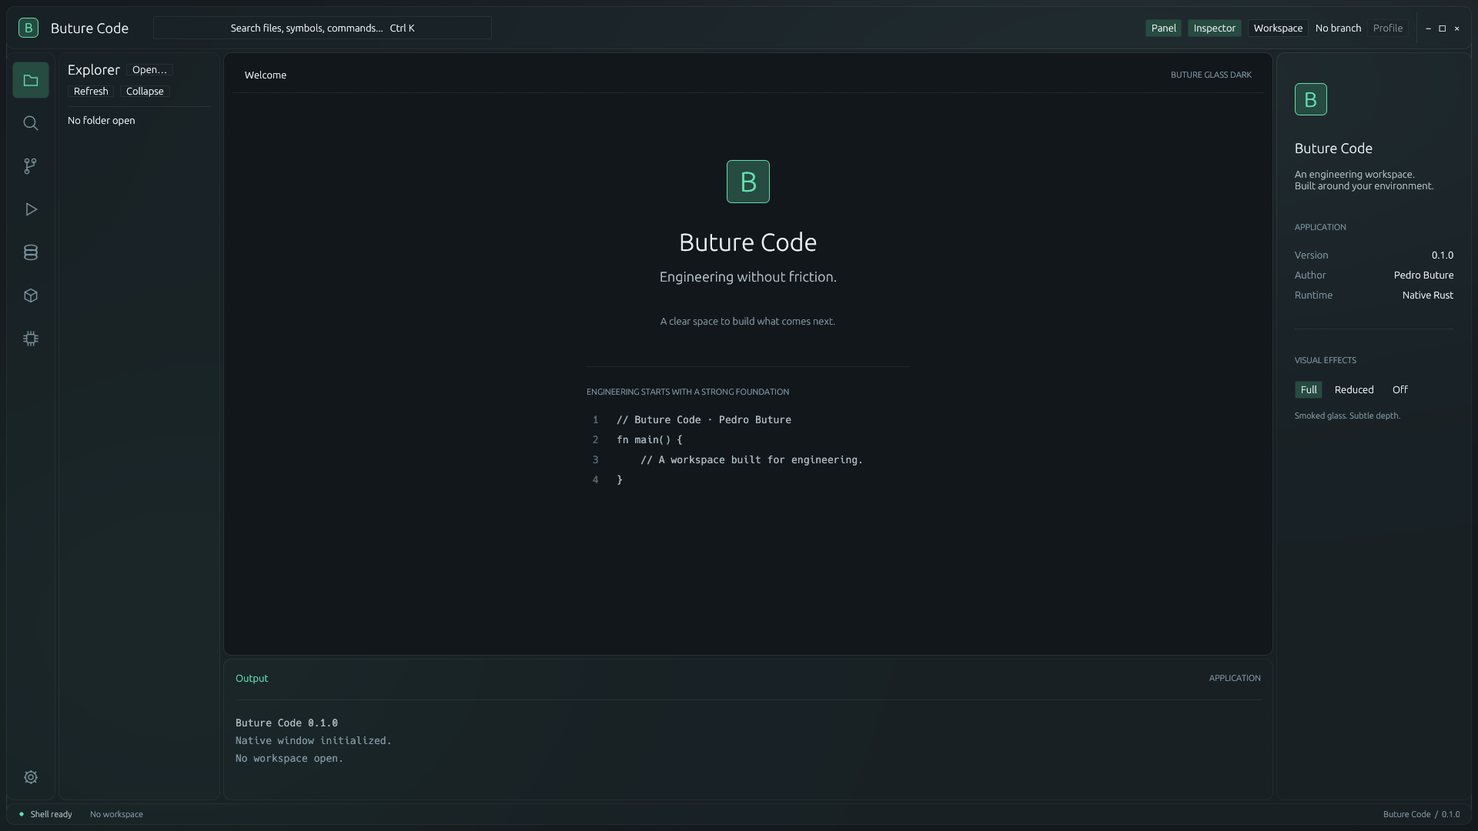
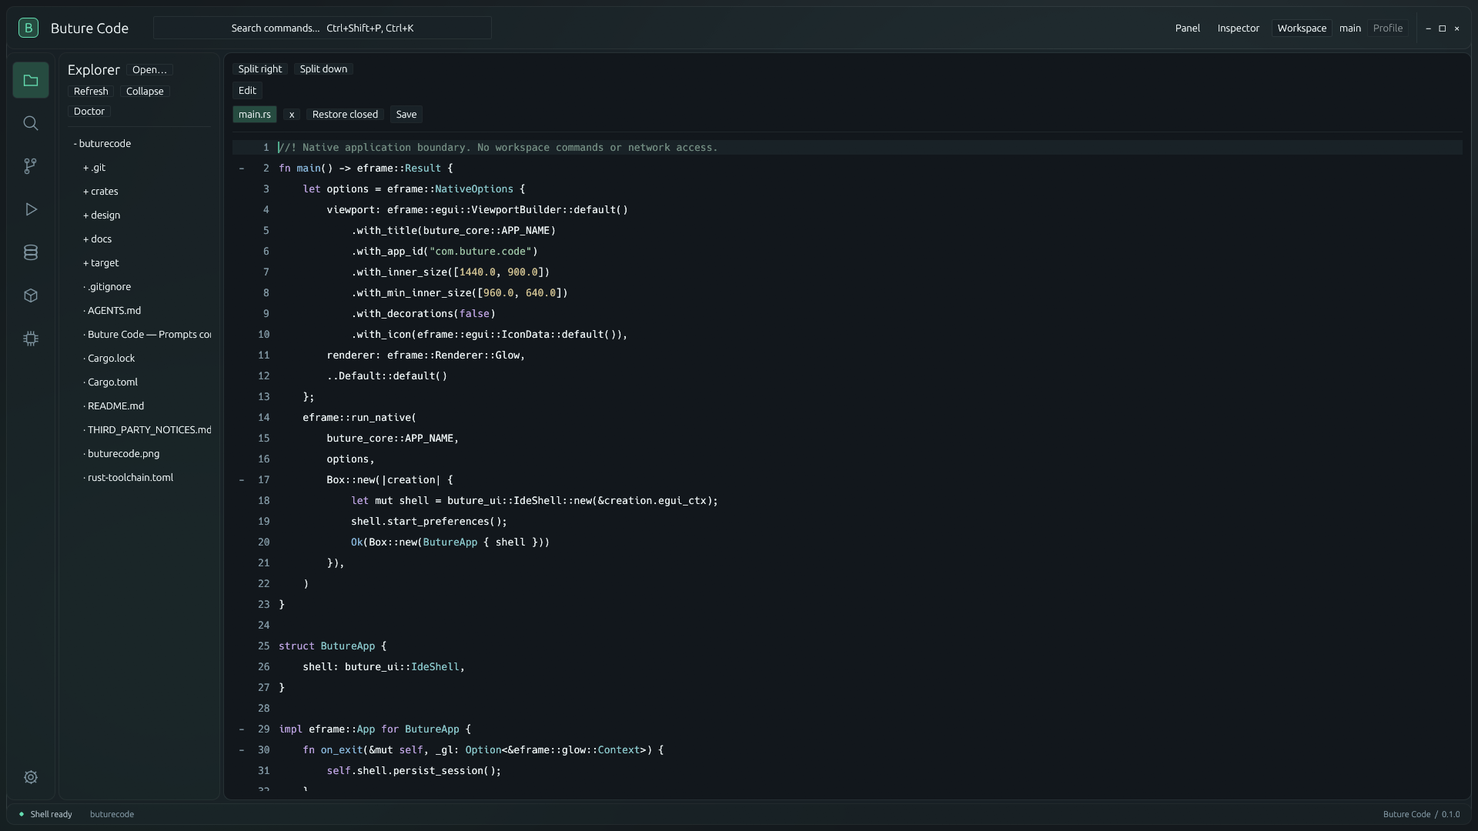
[docs] record milestone 35 validation and native previews

diff --git a/docs/architecture.md b/docs/architecture.md
@@ -4,13 +4,17 @@ Cargo workspace Rust stable, edition 2024, MSRV declarado 1.88. O lockfile fixa 
 
 ```text
 buture-app → eframe, buture-core, buture-ui
-buture-ui → egui, buture-settings, buture-workspace, buture-toolchains
-buture-settings / buture-workspace / buture-toolchains → biblioteca padrão
+buture-ui → settings, workspace, toolchains, doctor, project, editor, search, core
+buture-doctor → toolchains
+buture-project → serde_json, toml, ignore
+buture-editor → ropey, tree-sitter/grammars, serde_json
+buture-search → editor, core, regex, ignore
+buture-settings → core
 ```
 
-`buture-app` inicializa a janela e os workers de preferências/host. `buture-core` concentra a identidade. `buture-ui` fornece tokens, Backdrop, GlassSurface, layout, Explorer, onboarding e apresentação de Toolchains.
+`buture-app` inicializa a janela e os workers de preferências/host. `buture-core` concentra identidade, comandos, fuzzy matching e keybindings. `buture-ui` fornece tokens, Backdrop, GlassSurface, layout, Explorer, onboarding e apresentação de Toolchains.
 
-`buture-workspace` é um actor de filesystem: recebe ações e envia árvores/preview/erros. Apenas diretórios expandidos são listados; watcher por polling a cada dois segundos. A UI virtualiza linhas. Preview limitado a 1 MiB, sem edição. As ações validam confinamento ao workspace e rejeitam links simbólicos. IO ocorre no worker; não há comandos de projeto.
+`buture-workspace` é um actor de filesystem: recebe ações e envia árvores/preview/erros. Apenas diretórios expandidos são listados; watcher por polling a cada dois segundos. A UI virtualiza linhas. Preview de filesystem limitado a 1 MiB; abertura editável é delegada a buture-editor. As ações validam confinamento ao workspace e rejeitam links simbólicos. IO ocorre no worker; não há comandos de projeto.
 
 `buture-settings` valida chaves e valores, resolve Default → User → Workspace e persiste INI. Caminho do usuário: XDG_CONFIG_HOME ou ~/.config no Linux, Application Support no macOS, APPDATA no Windows. Workspace: `.buture/settings.ini`. Preferências privadas e conclusão do onboarding só vêm de User. Settings não aceita secrets, comandos ou providers arbitrários. Categorias futuras estão reservadas e não fingem funcionalidades prontas. Arquivo pessoal inválido não é sobrescrito por defaults.
 
@@ -20,6 +24,8 @@ buture-settings / buture-workspace / buture-toolchains → biblioteca padrão
 
 OpenGL/Glow, X11 ou Wayland no Linux. Windows/macOS suportados pelo toolkit, sem validação nativa neste ambiente. ShellLayout usa pontos lógicos; inspector cede espaço em janelas estreitas. Editor/preview é sólido. Tokens centralizam as cores; GlassSurface centraliza composição, blur e fallback, inclusive o onboarding.
 
-Backdrop interno e cache compartilhado; sem captura de wallpaper do SO ou blur atrás de texto. Repaint por interação e polling periódico de canais (200 ms), necessário para refletir eventos de workers. Não há medição de performance ou promessa de consumo em idle neste marco.
+Backdrop interno e cache compartilhado; sem captura de wallpaper do SO ou blur atrás de texto. Repaint por interação e polling periódico de canais (200 ms), necessário para refletir eventos de workers. Há um benchmark isolado de buffer em [performance](performance.md); consumo em idle e startup não foram medidos.
 
-Crates dos prompts seguintes continuam reservados: não há PTY, buffer editável, LSP, Doctor, Git completo, IA ou integrações fictícias. Não há ciclos de crates nem dependências externas novas nos prompts 06–20. Erros de domínio tipados; `unsafe_code` proibido no código autoral.
+`buture-doctor` agrega evidências e diagnósticos; `buture-project` detecta manifests/monorepos; `buture-editor` controla Rope, IO, transações, sessão e parsing incremental; `buture-search` controla consultas, índice e substituições revisadas. Workers coalescem snapshots e rejeitam resultados obsoletos. Views e grupos da UI compartilham buffers, mantendo seleção/scroll próprios. Veja [editor](editor.md).
+
+Prompts 36–95 continuam reservados: não há PTY, task runner, LSP, Git completo, IA ou integrações fictícias. Erros de domínio tipados; `unsafe_code` proibido no código autoral.

diff --git a/README.md b/README.md
@@ -12,17 +12,19 @@ Requer Rust stable e ambiente gráfico. No Linux, o backend usa OpenGL/EGL, X11 
 cargo run -p buture-app
 ```
 
-## Marco atual — prompts 01–20
+## Marco atual — prompts 01–35
 
-Buture Glass Dark com tokens e GlassSurface centralizados, modos Full / Reduced / Off, janela nativa, activity navigation e sidebar redimensionável.
+Buture Glass Dark com tokens e GlassSurface centralizados, modos Full / Reduced / Off e editor em superfície sólida. Doctor apresenta evidências e soluções; Project Overview detecta manifests e monorepos sem executar scripts.
 
-Explorer real: Open Folder (Ctrl/Cmd+O), pastas sob demanda, watcher por polling, navegação por teclado, seleção, menu contextual e operações de arquivos. Clique expande pastas; duplo clique ou Enter abre preview UTF-8 somente leitura, limitado a 1 MiB. Exclusão permanente exige confirmação. Não há editor editável neste ciclo.
+Editor nativo com buffer Rope UTF-8, undo/redo, edição, salvamento com proteção contra mudanças externas, tabs/pins/preview, splits e sessão de layout. Tree-sitter fornece syntax highlighting e folding em segundo plano. Edição inclui multicursor, ocorrências, indentação, comentários, pares automáticos, duplicação e movimentação de linhas.
 
-Settings usa camadas Default/User/Workspace em INI legível. O onboarding detecta o host, oferece seleção de linguagens, executa varredura em segundo plano e salva a conclusão. Settings → Development → Toolchains apresenta versões e locais observados de Rust, C/C++, Python, Java, Node.js e Go. Para ferramentas ausentes com método suportado, Install mostra explicação e comando exato, pede confirmação na aplicação e valida o resultado.
+Busca em documento/workspace com regex, case/whole word, globs e substituição revisada. Command Palette e Quick Open usam busca fuzzy. Atalhos têm defaults por SO, overrides pessoais, conflitos e chords de duas teclas. Settings → Keyboard Shortcuts abre o perfil.
 
-Command Center e Profile ainda são placeholders visuais. Áreas de ferramentas posteriores indicam que não estão implementadas. O painel Output não é um terminal. Doctor, LSP, edição, Git completo e demais integrações pertencem aos próximos prompts.
+Open Folder: Ctrl/Cmd+O; Open File: Ctrl/Cmd+Shift+O; Quick Open: Ctrl/Cmd+P; Palette: Ctrl/Cmd+Shift+P. Toolchains e instalação assistida mantêm revisão e confirmação explícitas.
 
-O ciclo autorizado termina no prompt 20. [Resultados e limitações](docs/milestone-20.md).
+O ciclo termina no prompt **35**. Terminal PTY, execução de projetos/tasks, integração Git completa e LSP pertencem às próximas etapas. O painel Output apresenta mensagens da aplicação. Build/Test do projeto não executados aparecem como tal.
+
+[Resultados e limitações do marco 35](docs/milestone-35.md). [Marco 20 histórico](docs/milestone-20.md).
 
 ## Verificação
 
@@ -34,12 +36,17 @@ cargo build --workspace
 cargo run -p buture-app --example capture_shell -- /tmp/buture-shell-preview
 ```
 
-O exemplo abre uma janela nativa, captura os modos de efeitos e os fluxos Explorer, Toolchains e onboarding, e encerra. A varredura de QA consulta versões reais; não instala ferramentas nem grava preferências pessoais. A geometria é determinada pelo compositor.
+O exemplo abre uma janela nativa, captura os modos de efeitos, editor, splits, busca, Palette, Quick Open, shortcuts, Doctor, Toolchains e onboarding, e encerra. A varredura de QA consulta versões reais; não instala ferramentas nem grava preferências pessoais. A geometria é determinada pelo compositor.
 
 - [Arquitetura](docs/architecture.md)
 - [Roadmap](docs/roadmap.md)
 - [Design system](docs/design-system.md)
 - [Toolchains e instalação assistida](docs/toolchains.md)
+- [Editor](docs/editor.md)
+- [Atalhos](docs/keybindings.md)
+- [Doctor](docs/doctor.md)
+- [Projetos](docs/project.md)
+- [Performance](docs/performance.md)
 - [Segurança](docs/security.md)
 - [Dependências](docs/dependencies.md)
 - [Third-party notices](THIRD_PARTY_NOTICES.md)

diff --git a/docs/milestone-35.md b/docs/milestone-35.md
@@ -1,0 +1,34 @@
+# Marco 35 — revisão dos prompts 21–35
+
+Pedro Buture autorizou ampliar o ciclo do prompt 20 até keybindings. Implementação em sequência, com commits por prompt, preservando a identidade Git configurada e os direitos do projeto. Prompts 36–95 permanecem fora deste ciclo.
+
+## Resultado
+
+Doctor com evidências/soluções; detecção de projetos e Overview; buffer Rope editável; canvas nativo com Buture Emerald, tabs e splits; parsing incremental e folding; operações avançadas; busca/substituição revisada; Palette; Quick Open; defaults de atalhos por SO, overrides, conflitos e chords.
+
+Revisão de segurança protege alterações locais durante reload, mantém metadados dos tabs, impede descarte durante saves pendentes e intercepta fechamento nativo com mudanças/saves em andamento. Save temporário não remove um arquivo preexistente que não criou. Doctor não declara prontidão para uma linguagem sem evidência de provider. Perfil de atalhos inválido/externamente alterado é preservado.
+
+## Verificação
+
+Linux x86_64, Rust stable 1.99.0:
+
+- `cargo fmt --all --check`: passou.
+- `cargo clippy --workspace --all-targets -- -D warnings`: passou.
+- `cargo test --workspace`: 44 testes passaram, zero falhas.
+- `cargo build --workspace`: passou.
+- Benchmark otimizado 10 mil/100 mil/1 milhão de linhas: [medidas e limites](performance.md).
+
+Testes cobrem Unicode/CRLF e undo transacional, ABI dos 13 parsers/variantes, equivalência de parse incremental e novo, virtualização de linhas, tabs/splits, ignore/regex/conflitos externos, preservação de reloads, defaults/overrides/chords e cancelamento de close durante save. Não substituir esses testes por alegações de validação de uso completo.
+
+Capturas da janela nativa Linux foram inspecionadas ao longo dos prompts 22–34. A tentativa final pela sessão Wayland ficou limitada por sessão bloqueada e monitor desligado. O backend X11 permitiu captura real do framebuffer; 13 frames finais capturados (Full/Reduced/Off, compact, editor-only, Explorer, editor, tabs, split, busca, Palette, Quick Open e shortcuts). Inspeção visual confirmou popups/resultados e a tela de atalhos; capturas selecionadas estão em `design/previews`. Nenhuma ferramenta foi instalada durante QA; exemplos não gravam preferências pessoais. Geometria física depende do compositor (1920×1080; compact variou para 941×1030).
+
+## Limites de entrega
+
+- Windows/macOS não executados; defaults e APIs portáveis não equivalem a validação nativa nesses hosts.
+- Não há PTY/task runner/LSP/Git completo/temas adicionais. Commands futuros desabilitados; build/test do projeto não executados.
+- Canvas virtualiza linhas verticais; linhas gigantescas, graphemes, IME/preedit e acessibilidade exigem trabalho adicional.
+- Session persiste layout/caminhos, não backup de conteúdo não salvo; fechamento pede decisão explícita.
+- Save compara disco antes de escrever, sem lock contra escritores concorrentes. Workspace Replace All pode terminar parcialmente após erro de IO; resultado informa arquivos aplicados.
+- Index/manifest/regex/parsing têm limites e podem produzir resultados parciais informados. Highlights não são semântica de compilador.
+
+Detalhes: [editor](editor.md), [atalhos](keybindings.md), [Doctor](doctor.md), [projetos](project.md), [dependências](dependencies.md), [segurança](security.md).

diff --git a/docs/editor.md b/docs/editor.md
@@ -1,0 +1,15 @@
+# Editor — prompts 25–34
+
+`buture-editor` mantém Rope UTF-8, posições em caracteres escalares e linhas LF/CRLF. Buffer e views são separados: splits compartilham o documento e têm cursor/scroll independentes. Transações disjuntas formam um único passo de undo; histórico estrutural limitado a 256 passos. Arquivos UTF-8 até 128 MiB; arquivos binários ou UTF-8 inválidos produzem erro.
+
+IO e parsing ficam em workers. Salvamento escreve arquivo temporário próprio, preserva permissões e substitui o destino por rename após comparar o conteúdo salvo com o disco. Mudanças externas geram conflito; não há overwrite silencioso. Essa verificação não é um lock contra escritores concorrentes. Reload preserva tabs/pins e ignora documentos que foram editados enquanto a leitura estava em andamento. Fechar tab ou janela com alterações exige salvar, descartar explicitamente ou cancelar. Sessão guarda apenas layout/caminhos, não conteúdo não salvo.
+
+Tabs oferecem preview por clique simples, abertura permanente por duplo clique, pins, fechamento de outras/à direita e restauração. Perfil de sessão pessoal `editor-session.json`, limitado a 1 MiB e quatro grupos, preserva arquivo inválido ou modificado externamente. Não restaura caminhos fora do root. Opens explícitos recebem foco; preview do Explorer mantém navegação pela árvore.
+
+Tree-sitter 0.25.10 cobre Rust, C, C++, Python, Java, JavaScript, TypeScript/TSX, Go, JSON, TOML, YAML e blocos Markdown. Edits são calculados entre snapshots UTF-8 e aplicados incrementalmente à árvore. Resultados antigos são rejeitados por revision/content id; limites de tempo impedem um parse de monopolizar o worker. Classificação própria de nós/tokens alimenta Buture Emerald e folding. Não há LSP ou semântica de compilador; Markdown não faz parsing de linguagens injetadas.
+
+Edição inclui multicursor, próxima ocorrência, seleção, clipboard, comentários, duplicação/movimentação de linhas, indentação/outdent, pares automáticos, matching de brackets e folding. Busca em documento é uma transação de undo. Busca no workspace respeita ignore, filtros e limites, não percorre symlinks e exclui arquivos sensíveis por padrão. Regex usa motor sem backtracking exponencial. Índice Quick Open armazena caminhos e nasce sob demanda; trabalho de filesystem/fuzzy ocorre fora da UI.
+
+Replace All no workspace exige preview e confirmação, bloqueia documentos sujos e valida os arquivos antes de escrever. Cada arquivo é salvo atomicamente, mas a operação inteira não é uma transação de filesystem: uma falha posterior pode deixar parte dos arquivos aplicada, informada ao usuário. Limites: 16 MiB por arquivo de busca, 100 mil entradas, 10 mil resultados e 64 MiB de plano de substituição. Jobs obsoletos são cancelados e resultados transmitidos em lotes.
+
+A renderização virtualiza linhas verticais, não caracteres de uma linha gigantesca. Layout horizontal de linhas longas ainda exige trabalho proporcional ao texto da linha visível. Navegação por caracteres Unicode não equivale a graphemes; IME/preedit e acessibilidade do canvas precisam de validação e refinamento adicionais. Sem afirmar experiência completa de editor de produção ou performance em plataformas não medidas.

diff --git a/docs/roadmap.md b/docs/roadmap.md
@@ -1,6 +1,6 @@
 # Roadmap
 
-Pedro Buture ampliou o ciclo até o prompt 20. Prompts 01–05 já estavam concluídos. O avanço mantém commits por etapa.
+Pedro Buture ampliou o ciclo até o prompt 35. Prompts 01–05 já estavam concluídos. O avanço mantém commits por etapa.
 
 1. Bootstrap e arquitetura de workspace.
 2. Regras de autoria e desenvolvimento.
@@ -23,6 +23,22 @@ Pedro Buture ampliou o ciclo até o prompt 20. Prompts 01–05 já estavam concl
 19. Settings → Development → Toolchains com resultados observados.
 20. Instalação assistida: revisão do comando, confirmação, execução e validação.
 
-Etapas implementadas; consulte as limitações em [toolchains](toolchains.md) e [marco 20](milestone-20.md). Command Center completo, editor editável, terminal PTY, integração Git, LSP e Doctor pertencem aos próximos prompts. A leitura de `.git/HEAD` só apresenta a branch; não implementa o domínio Git.
+21. Motor Buture Doctor com diagnósticos tipados e evidências.
+22. Workspace visual do Doctor e ações revisadas.
+23. Detecção automática de projetos e monorepos.
+24. Project Overview com manifests e estados reais.
+25. Buffer Rope UTF-8, transações, undo/redo e salvamento.
+26. Editor nativo com renderização de linhas visíveis.
+27. Tema de sintaxe Buture Emerald centralizado.
+28. Tabs, pins, preview e persistência de layout.
+29. Split editor com buffers compartilhados e views independentes.
+30. Parsing incremental Tree-sitter e folding.
+31. Operações avançadas de edição.
+32. Busca e substituição em documento/workspace.
+33. Command Palette e registro de comandos.
+34. Quick Open fuzzy com índice sob demanda.
+35. Keybindings por SO, overrides, conflitos e chords.
 
-Parar após o prompt 20 e aguardar novas instruções. Prompts 21–95 não foram antecipados.
+Etapas implementadas com limites registrados em [marco 35](milestone-35.md). A leitura de `.git/HEAD` apresenta a branch; não implementa o domínio Git. Build/Test/Run/Terminal indisponíveis não são estados simulados.
+
+Parar após o prompt 35 e aguardar novas instruções. Prompts 36–95 não foram antecipados.

diff --git a/docs/keybindings.md b/docs/keybindings.md
@@ -1,0 +1,35 @@
+# Atalhos — prompt 35
+
+Registro de comandos e keybinding engine vivem em `buture-core`, sem GUI. Defaults usam Cmd no macOS e Ctrl no Windows/Linux. Escopos Global/Editor evitam ações de edição quando um campo de busca ou Settings está focado. Palette, Quick Open e diálogos tratam sua própria navegação.
+
+Settings → Keyboard Shortcuts edita o perfil pessoal `keybindings.ini`, junto às preferências do usuário. Arquivos do workspace não mudam atalhos. Save valida antes de escrever; Reload detecta mudanças externas. Perfil inválido não substitui o mapa ativo, e arquivo externo não é sobrescrito sem recarregar. Perfil ausente usa defaults. Limite 64 KiB.
+
+```ini
+# Primary = Cmd no macOS, Ctrl nos demais
+editor.save = Primary+Alt+S
+editor.comment = none
+commands.open = Primary+Shift+P, Primary+K
+```
+
+Exemplo alternativo de chord:
+
+```ini
+# Desabilitar o default simples libera o prefixo para um chord
+commands.open = Primary+Shift+P
+editor.save = Primary+K S
+```
+
+Os exemplos são alternativas: um perfil não pode repetir o mesmo command.id. Cada override substitui todos os defaults daquele comando; `none` desabilita. Alias separado por vírgula, sequência de até duas teclas separada por espaço. Conflitos idênticos e conflitos entre uma tecla simples e prefixo de chord são rejeitados quando os escopos se sobrepõem. Chord expira após 1,5 s; a tecla consumida não entra no documento. IDs desconhecidos e teclas inválidas geram erro.
+
+| Ação | Default Primary |
+| --- | --- |
+| Open Folder / File | O / Shift+O |
+| Quick Open / Palette | P / Shift+P ou K |
+| Save / Undo / Redo | S / Z / Shift+Z (Ctrl+Y adicional fora do macOS) |
+| Find / Find workspace | F / Shift+F |
+| Close / Restore tab | W / Shift+T |
+| Split right / down | Backslash / Shift+Backslash |
+| Next occurrence | D |
+| Comment | Slash |
+
+A tela lista os atalhos ativos. Defaults por plataforma têm testes unitários; execução nativa foi validada apenas no Linux. Ctrl/Cmd não instala ferramentas nem executa comandos definidos por projetos.

diff --git a/docs/performance.md b/docs/performance.md
@@ -1,0 +1,15 @@
+# Performance observada — marco 35
+
+Benchmark isolado de buffer, Linux x86_64, Rust stable 1.99.0, perfil Cargo bench otimizado. Executado em 13/10/2026 com `cargo bench -p buture-editor --bench buffer`. Texto sintético `let value = 42;\n`; cada rodada insere/remove um caractere no meio e consulta posição. Uma execução, sem inferir p95 ou regressão a partir de um único resultado.
+
+| Linhas | Construção do buffer | 1000 rodadas insert/remove/map |
+| --- | --- | --- |
+| 10 mil | 424,402 µs | 1,782184 ms |
+| 100 mil | 3,802869 ms | 2,122535 ms |
+| 1 milhão | 42,725151 ms | 2,588283 ms |
+
+Isso mede Rope/buffer, sem disco, fonte, UI, parsing, snapshots de todos os cenários ou consumo de memória. Não prova startup rápido, fluidez de linha gigantesca ou consumo de idle. O teste de UI de 100 mil linhas verifica que a produção de shapes fica restrita ao viewport; não mede FPS.
+
+Renderização virtualiza linhas. Parsing, busca, manifests, indexação e IO ocorrem fora do loop de apresentação. Índice de caminhos é sob demanda; consultas obsoletas são canceladas e resultados de parsing filtrados por identidade/revision. Backdrop/effects são compartilhados. Limites de entrada e resultados estão descritos em [editor](editor.md).
+
+Próximas medições devem separar startup, latência input-to-frame, long lines, memória/undo, parse inicial/incremental e idle em Linux/Windows/macOS. Nenhuma dessas métricas foi fabricada neste marco.

diff --git a/docs/security.md b/docs/security.md
@@ -11,3 +11,5 @@ Explorer exige confirmação para exclusão permanente, rejeita operações fora
 Preferências são validadas e não aceitam secrets; o workspace não habilita IA, telemetria ou conclusão do onboarding. Arquivos pessoais inválidos não são substituídos por defaults. `.env` não é versionado. O preview permite ler arquivos escolhidos pelo usuário; nenhuma informação é enviada a serviços externos. Logs de instalação ficam em memória e são limitados; não há armazenamento de credenciais ou telemetria.
 
 Rede só pode ser usada pelo gerenciador de pacotes após confirmação de instalação. Não há IA, extensões, SSH ou banco de dados neste ciclo. `unsafe_code` é proibido no código autoral; dependências mantêm suas próprias licenças.
+
+Edição compara conteúdo salvo/disco antes de substituir arquivos; reloads em andamento preservam alterações locais. Fechar com alterações exige decisão explícita. Substituição no workspace tem revisão e pode terminar parcialmente em erro; veja [editor](editor.md). Sessão não grava conteúdo não salvo. Atalhos são pessoais, validados, e não aceitam execução de comandos arbitrários. Busca/índice não seguem symlinks e excluem caminhos sensíveis por padrão, mas abertura explícita pode ler arquivos escolhidos pelo usuário.

diff --git a/docs/doctor.md b/docs/doctor.md
@@ -1,0 +1,7 @@
+# Buture Doctor — prompts 21–22
+
+Motor independente da UI agrega evidências dos providers e fatos do host. Cada diagnóstico tem categoria, severidade, descrição, causa e solução. Estado Ready/Needs Attention/Blocked deriva dessas evidências; linguagens sem provider geram aviso de ausência de avaliação. O escopo identifica as linguagens requeridas pelo projeto ou onboarding.
+
+Verifica papéis obrigatórios de runtime/compiler/build/package manager, ferramentas opcionais, presença de PATH/home/shell, Git/Docker CLI e resposta do daemon Docker. No Linux conta listeners observáveis em `/proc/net/tcp` e `tcp6`; em outras plataformas essa contagem não é afirmada. Docker observado não prova acesso futuro ou saúde de todos os containers. Manifests encontrados não significam que build/test passou.
+
+UI oferece nova varredura, seleção e ação para correção. Instalação segue o mesmo plano assistido: método/comando exibidos, consentimento e validação. Correções sem installer suportado exibem instruções manuais. Nenhuma instalação foi executada na validação deste marco.

diff --git a/docs/project.md b/docs/project.md
@@ -1,0 +1,7 @@
+# Projetos — prompts 23–24
+
+Detecção em worker de Cargo, package.json, Python, Maven/Gradle, Go e CMake/Makefile. JSON/TOML são realmente analisados; formatos adicionais usam leitura limitada de campos/manifests. Monorepos podem produzir múltiplos projetos. Travessia respeita ignore, não segue symlinks e limita profundidade a 16, entradas a 100 mil e projetos a 1024.
+
+Project Overview mostra nome, tipo, linguagens, build system e manifests detectados. A branch é leitura de `.git/HEAD`. Scripts candidatos são metadados, nunca executados automaticamente. Builds/tests aparecem como não executados. Run, Build, Test, Terminal e Architecture permanecem indisponíveis neste marco. Doctor, Toolchains e abertura de manifest são ações reais.
+
+Detecção é heurística e limitada; não resolve todos os formatos/DSLs ou subprojetos ignorados. Manifests inválidos ou leitura falha geram evidência de erro, sem inventar um projeto pronto.

diff --git a/docs/milestone-20.md b/docs/milestone-20.md
@@ -19,3 +19,5 @@ Windows/macOS não compilados ou executados. Suporte de gerenciadores e executá
 Explorer usa polling em dois segundos e preview UTF-8 limitado a 1 MiB; sem edição, undo ou PTY. Cópias podem ser parciais após falha de IO. A segurança de caminhos não isola um filesystem hostil com corridas concorrentes. Command Center permanece visual; profile e áreas posteriores são placeholders explícitos. Branch é lida de `.git/HEAD`, sem operações Git ou suporte completo a worktrees. Settings aceita apenas o schema implementado, com categorias futuras reservadas. Não foram medidos números de performance nem consumo de idle.
 
 O ciclo termina aqui. Não implementar prompt 21 sem novas instruções.
+
+Este documento registra o marco histórico 20. O ciclo posterior autorizado por Pedro Buture foi concluído até o [marco 35](milestone-35.md).
